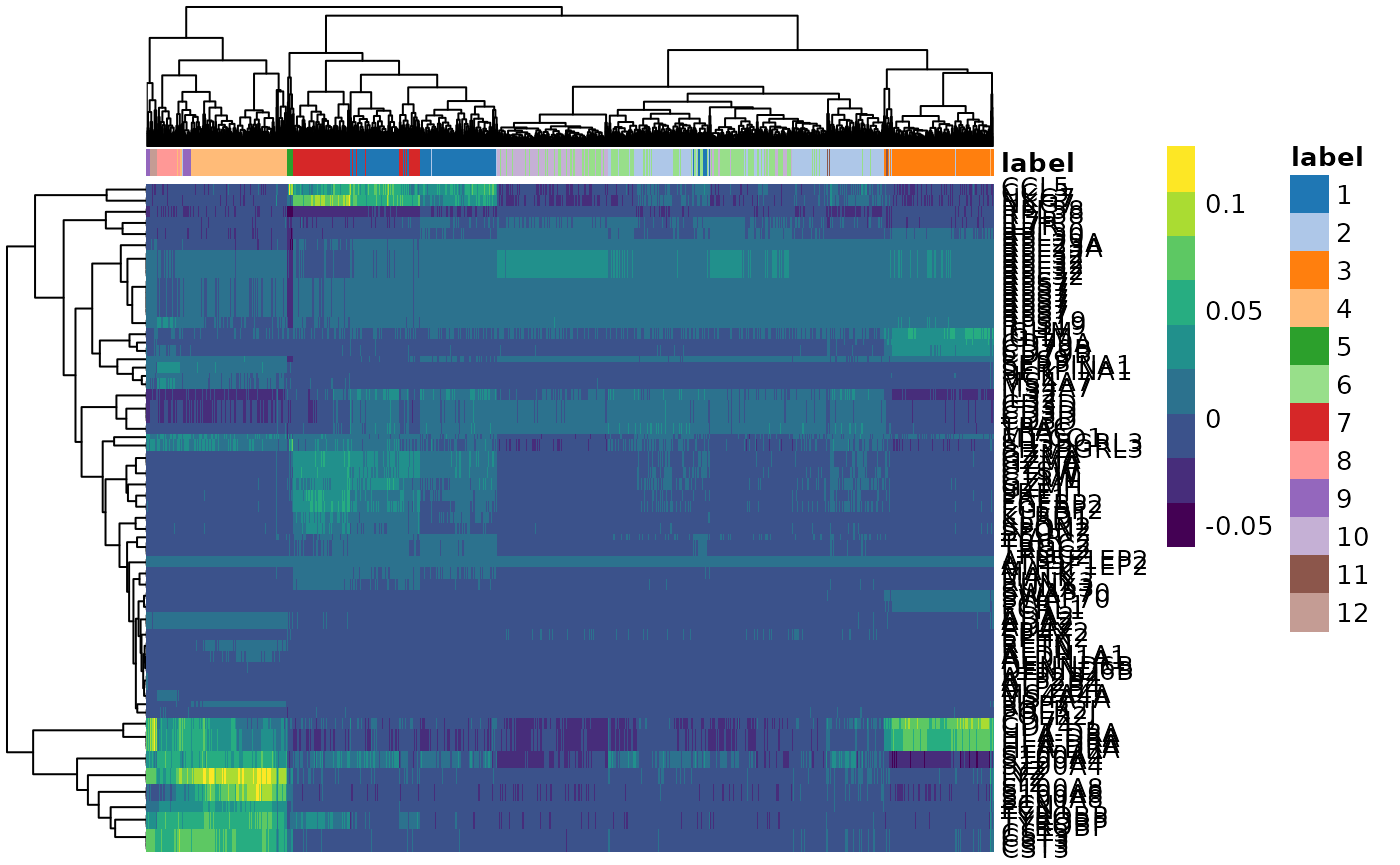
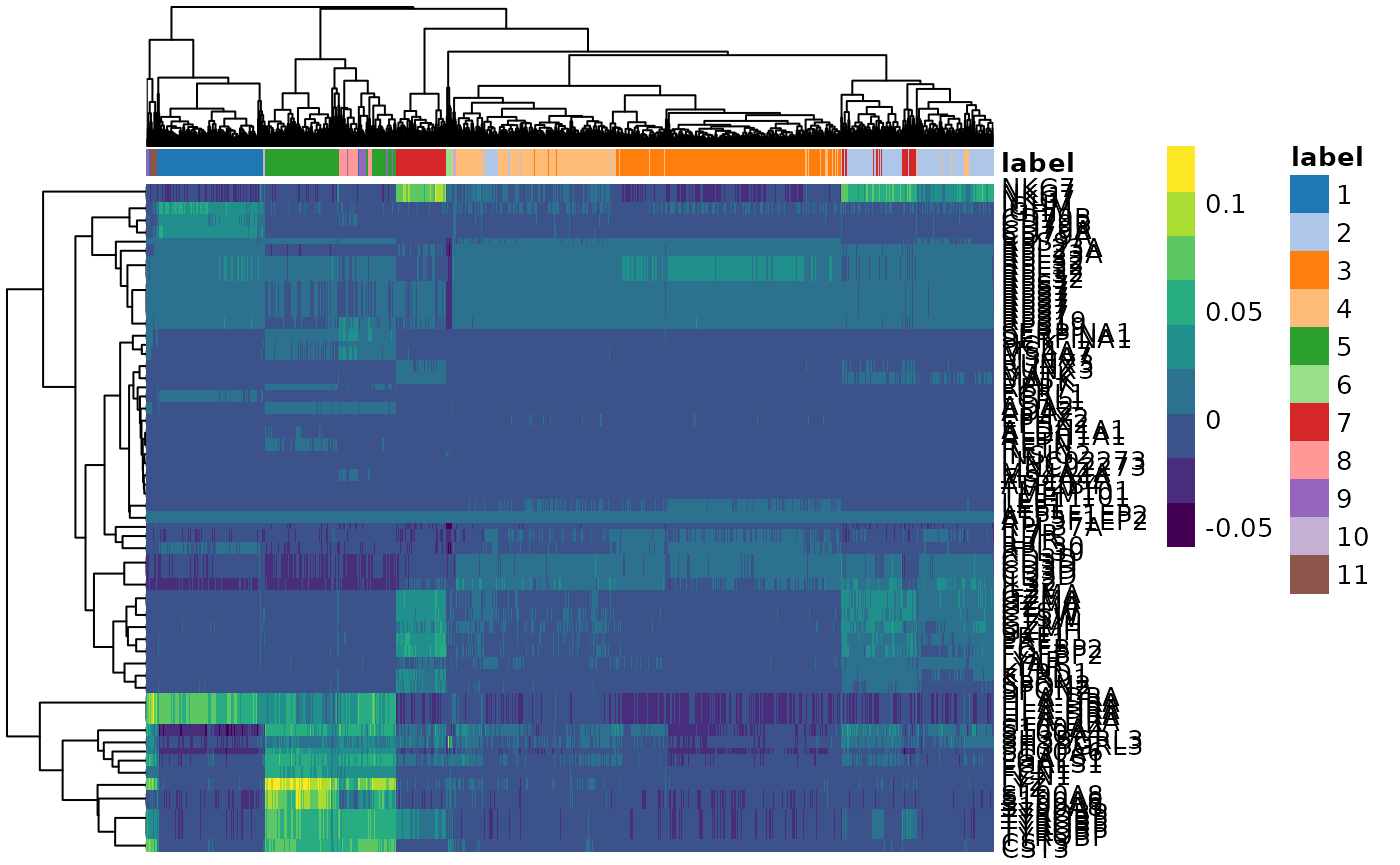
Deploying to gh-pages from  @ a891054244f33c770481f4116cd50b5c8992ccff 🚀

diff --git a/articles/tidytranscriptomics.html b/articles/tidytranscriptomics.html
@@ -93,8 +93,7 @@
 <div id="workshop-introduction" class="section level1">
 <h1 class="hasAnchor">
 <a href="#workshop-introduction" class="anchor"></a>Workshop introduction</h1>
-<p>Background information and setup instructions for this workshop can be found <a href="https://stemangiola.github.io/bioc2021_tidytranscriptomics/articles/background.html">here</a>.</p>
-<p>This workshop will present how to perform analysis of RNA sequencing data following the tidy data paradigm <span class="citation">(Wickham and others 2014)</span>. The tidy data paradigm provides a standard way to organise data values within a dataset, where each variable is a column, each observation is a row, and data is manipulated using an easy-to-understand vocabulary. Most importantly, the data structure remains consistent across manipulation and analysis functions. This can be achieved for RNA sequencing data with the <a href="https://stemangiola.github.io/tidybulk/">tidybulk</a>, <a href="https://stemangiola.github.io/tidySummarizedExperiment/">tidySummarizedExperiment</a> and <a href="https://stemangiola.github.io/tidySingleCellExperiment/">tidySingleCellExperiment</a> packages. These packages are part of the tidytranscriptomics suite that introduces a tidy approach to RNA sequencing data representation and analysis. The roadmap for the development of the tidytranscriptomics packages is shown in the figure below.</p>
+<p><a href="https://stemangiola.github.io/tidybulk/">tidybulk</a>, <a href="https://stemangiola.github.io/tidySummarizedExperiment/">tidySummarizedExperiment</a> and <a href="https://stemangiola.github.io/tidySingleCellExperiment/">tidySingleCellExperiment</a> are part of the tidytranscriptomics suite that introduces a tidy approach to RNA sequencing data representation and analysis. The roadmap for the development of the tidytranscriptomics packages is shown in the figure below.</p>
 <p><img src="../inst/vignettes/roadmap.png" width="600px"></p>
 </div>
 <div id="part-1-bulk-rna-seq-with-tidysummarizedexperiment-and-tidybulk" class="section level1">
@@ -674,15 +673,17 @@
   <span class="fu"><a href="https://ggplot2.tidyverse.org/reference/scale_continuous.html">scale_y_continuous</a></span><span class="op">(</span>trans <span class="op">=</span> <span class="st">"log10_reverse"</span><span class="op">)</span> <span class="op">+</span>
   <span class="va">custom_theme</span></code></pre></div>
 <p><img src="tidytranscriptomics_files/figure-html/unnamed-chunk-28-1.png" width="70%"></p>
-<p>A more informative plot, integrating some of the packages in tidyverse.</p>
-<p>We’ll extract the symbols for a few top genes (by P value) to use in some of the plots we will make.</p>
+<p>We’ll extract the symbols for a few top genes (by P value) to use in a more informative volcano plot, integrating some of the packages in tidyverse.</p>
 <div class="sourceCode" id="cb26"><pre class="downlit sourceCode r">
 <code class="sourceCode R"><span class="va">topgenes_symbols</span> <span class="op">&lt;-</span>
   <span class="va">counts_de</span> <span class="op">%&gt;%</span>
   <span class="fu"><a href="https://rdrr.io/pkg/tidybulk/man/pivot_transcript-methods.html">pivot_transcript</a></span><span class="op">(</span><span class="op">)</span> <span class="op">%&gt;%</span>
   <span class="fu"><a href="https://dplyr.tidyverse.org/reference/arrange.html">arrange</a></span><span class="op">(</span><span class="va">PValue</span><span class="op">)</span> <span class="op">%&gt;%</span>
   <span class="fu"><a href="https://rdrr.io/r/utils/head.html">head</a></span><span class="op">(</span><span class="fl">6</span><span class="op">)</span> <span class="op">%&gt;%</span>
-  <span class="fu"><a href="https://rdrr.io/pkg/tidySummarizedExperiment/man/dplyr-methods.html">pull</a></span><span class="op">(</span><span class="va">symbol</span><span class="op">)</span></code></pre></div>
+  <span class="fu"><a href="https://rdrr.io/pkg/tidySummarizedExperiment/man/dplyr-methods.html">pull</a></span><span class="op">(</span><span class="va">symbol</span><span class="op">)</span>
+
+<span class="va">topgenes_symbols</span>
+<span class="co">#&gt; [1] "CACNB2"  "ZBTB16"  "PRSS35"  "PDPN"    "SPARCL1" "DUSP1"</span></code></pre></div>
 <div class="sourceCode" id="cb27"><pre class="downlit sourceCode r">
 <code class="sourceCode R"><span class="va">counts_de</span> <span class="op">%&gt;%</span>
   <span class="fu"><a href="https://rdrr.io/pkg/tidybulk/man/pivot_transcript-methods.html">pivot_transcript</a></span><span class="op">(</span><span class="op">)</span> <span class="op">%&gt;%</span>
@@ -1257,36 +1258,35 @@
 <span class="co">#&gt; [90m# Features=51958 | Assays=reconstructed[39m</span>
 <span class="co">#&gt;    cell       label batch corrected1 corrected2 corrected3 corrected4 corrected5</span>
 <span class="co">#&gt;    &lt;chr&gt;      &lt;fct&gt; &lt;int&gt;      &lt;dbl&gt;      &lt;dbl&gt;      &lt;dbl&gt;      &lt;dbl&gt;      &lt;dbl&gt;</span>
-<span class="co">#&gt;  1 CCAGTCACA… 4         1   -0.0644     -0.334     -0.0725     0.0559   -0.0739 </span>
-<span class="co">#&gt;  2 ATGAGCACA… 6         1   -0.178       0.0166    -0.122      0.122     0.0234 </span>
-<span class="co">#&gt;  3 TATGAATGG… 7         1   -0.0602     -0.0356     0.127      0.293     0.0127 </span>
-<span class="co">#&gt;  4 CATATAGAC… 12        1   -0.0761     -0.282     -0.121      0.0546   -0.00284</span>
-<span class="co">#&gt;  5 GAGGCAGAC… 1         1   -0.0757     -0.0424     0.0977     0.259     0.0248 </span>
-<span class="co">#&gt;  6 AGCTGCCTT… 2         1   -0.117      -0.0242    -0.0729     0.159     0.0170 </span>
-<span class="co">#&gt;  7 TGATTAGAT… 3         1   -0.146      -0.0752    -0.143      0.0489    0.0916 </span>
-<span class="co">#&gt;  8 ACGAAGCTC… 3         1   -0.119      -0.108     -0.127      0.0505    0.0624 </span>
-<span class="co">#&gt;  9 CGGCATCTT… 4         1   -0.00945    -0.407     -0.0466     0.0803   -0.0522 </span>
-<span class="co">#&gt; 10 ATAGCGTGC… 4         1   -0.0562     -0.367     -0.105      0.0589   -0.0609 </span>
+<span class="co">#&gt;  1 CCAGTCACA… 5         1    0.0644     -0.334      0.0725    -0.0560    0.0739 </span>
+<span class="co">#&gt;  2 ATGAGCACA… 3         1    0.178       0.0166     0.122     -0.122    -0.0233 </span>
+<span class="co">#&gt;  3 TATGAATGG… 7         1    0.0602     -0.0356    -0.127     -0.293    -0.0128 </span>
+<span class="co">#&gt;  4 CATATAGAC… 11        1    0.0760     -0.282      0.121     -0.0546    0.00285</span>
+<span class="co">#&gt;  5 GAGGCAGAC… 2         1    0.0756     -0.0424    -0.0977    -0.259    -0.0248 </span>
+<span class="co">#&gt;  6 AGCTGCCTT… 4         1    0.117      -0.0242     0.0729    -0.159    -0.0170 </span>
+<span class="co">#&gt;  7 TGATTAGAT… 1         1    0.146      -0.0752     0.143     -0.0488   -0.0915 </span>
+<span class="co">#&gt;  8 ACGAAGCTC… 1         1    0.119      -0.108      0.127     -0.0505   -0.0624 </span>
+<span class="co">#&gt;  9 CGGCATCTT… 5         1    0.00940    -0.407      0.0466    -0.0803    0.0522 </span>
+<span class="co">#&gt; 10 ATAGCGTGC… 5         1    0.0561     -0.367      0.105     -0.0590    0.0610 </span>
 <span class="co">#&gt; # … with 2,889 more rows</span></code></pre></div>
 <p>Thanks to tidySingleCellExperiment we can interrogate the object with tidyverse commands and use <code>count</code> to count the number of cells in each cluster.</p>
 <div class="sourceCode" id="cb51"><pre class="downlit sourceCode r">
 <code class="sourceCode R"><span class="va">pbmc</span> <span class="op">%&gt;%</span> <span class="fu"><a href="https://rdrr.io/pkg/tidySingleCellExperiment/man/count.html">count</a></span><span class="op">(</span><span class="va">label</span><span class="op">)</span>
 <span class="co">#&gt; tidySingleCellExperiment says: A data frame is returned for independent data analysis.</span>
-<span class="co">#&gt; # A tibble: 12 x 2</span>
+<span class="co">#&gt; # A tibble: 11 x 2</span>
 <span class="co">#&gt;    label     n</span>
 <span class="co">#&gt;    &lt;fct&gt; &lt;int&gt;</span>
-<span class="co">#&gt;  1 1       463</span>
-<span class="co">#&gt;  2 2       509</span>
-<span class="co">#&gt;  3 3       351</span>
-<span class="co">#&gt;  4 4       339</span>
-<span class="co">#&gt;  5 5        21</span>
-<span class="co">#&gt;  6 6       499</span>
-<span class="co">#&gt;  7 7       257</span>
+<span class="co">#&gt;  1 1       367</span>
+<span class="co">#&gt;  2 2       480</span>
+<span class="co">#&gt;  3 3       743</span>
+<span class="co">#&gt;  4 4       538</span>
+<span class="co">#&gt;  5 5       339</span>
+<span class="co">#&gt;  6 6        21</span>
+<span class="co">#&gt;  7 7       256</span>
 <span class="co">#&gt;  8 8        74</span>
 <span class="co">#&gt;  9 9        41</span>
-<span class="co">#&gt; 10 10      305</span>
-<span class="co">#&gt; 11 11       14</span>
-<span class="co">#&gt; 12 12       26</span></code></pre></div>
+<span class="co">#&gt; 10 10       14</span>
+<span class="co">#&gt; 11 11       26</span></code></pre></div>
 </div>
 <div id="reduce-dimensions" class="section level2">
 <h2 class="hasAnchor">
@@ -1343,7 +1343,7 @@
 <div class="sourceCode" id="cb55"><pre class="downlit sourceCode r">
 <code class="sourceCode R"><span class="co"># Reference cell types</span>
 <span class="va">blueprint</span> <span class="op">&lt;-</span> <span class="fu"><a href="https://rdrr.io/pkg/SingleR/man/datasets.html">BlueprintEncodeData</a></span><span class="op">(</span><span class="op">)</span>
-<span class="co">#&gt; snapshotDate(): 2021-05-26</span>
+<span class="co">#&gt; snapshotDate(): 2021-05-27</span>
 <span class="co">#&gt; see ?celldex and browseVignettes('celldex') for documentation</span>
 <span class="co">#&gt; loading from cache</span>
 <span class="co">#&gt; see ?celldex and browseVignettes('celldex') for documentation</span>
@@ -1367,21 +1367,20 @@
   <span class="fu"><a href="https://rdrr.io/pkg/tidySingleCellExperiment/man/dplyr-methods.html">select</a></span><span class="op">(</span><span class="va">label</span>, <span class="va">first.labels</span><span class="op">)</span>
 
 <span class="va">cell_type</span>
-<span class="co">#&gt; # A tibble: 12 x 2</span>
+<span class="co">#&gt; # A tibble: 11 x 2</span>
 <span class="co">#&gt;    label first.labels   </span>
 <span class="co">#&gt;    &lt;chr&gt; &lt;chr&gt;          </span>
-<span class="co">#&gt;  1 1     NK cells       </span>
-<span class="co">#&gt;  2 2     Fibroblasts    </span>
-<span class="co">#&gt;  3 3     B-cells        </span>
-<span class="co">#&gt;  4 4     Monocytes      </span>
-<span class="co">#&gt;  5 5     Smooth muscle  </span>
-<span class="co">#&gt;  6 6     Skeletal muscle</span>
+<span class="co">#&gt;  1 1     B-cells        </span>
+<span class="co">#&gt;  2 2     NK cells       </span>
+<span class="co">#&gt;  3 3     Skeletal muscle</span>
+<span class="co">#&gt;  4 4     Fibroblasts    </span>
+<span class="co">#&gt;  5 5     Monocytes      </span>
+<span class="co">#&gt;  6 6     Smooth muscle  </span>
 <span class="co">#&gt;  7 7     NK cells       </span>
 <span class="co">#&gt;  8 8     Neutrophils    </span>
 <span class="co">#&gt;  9 9     Macrophages    </span>
-<span class="co">#&gt; 10 10    Skeletal muscle</span>
-<span class="co">#&gt; 11 11    B-cells        </span>
-<span class="co">#&gt; 12 12    Monocytes</span></code></pre></div>
+<span class="co">#&gt; 10 10    B-cells        </span>
+<span class="co">#&gt; 11 11    Monocytes</span></code></pre></div>
 <p>We join the cell type information to our pbmc data.</p>
 <div class="sourceCode" id="cb56"><pre class="downlit sourceCode r">
 <code class="sourceCode R"><span class="co"># Join cell type info</span>
@@ -1395,37 +1394,36 @@
 <span class="co">#&gt; [90m# Features=51958 | Assays=reconstructed[39m</span>
 <span class="co">#&gt;    cell  first.labels batch label corrected1 corrected2 corrected3 corrected4</span>
 <span class="co">#&gt;    &lt;chr&gt; &lt;chr&gt;        &lt;int&gt; &lt;chr&gt;      &lt;dbl&gt;      &lt;dbl&gt;      &lt;dbl&gt;      &lt;dbl&gt;</span>
-<span class="co">#&gt;  1 CCAG… Monocytes        1 4       -0.0644     -0.334     -0.0725     0.0559</span>
-<span class="co">#&gt;  2 ATGA… Skeletal mu…     1 6       -0.178       0.0166    -0.122      0.122 </span>
-<span class="co">#&gt;  3 TATG… NK cells         1 7       -0.0602     -0.0356     0.127      0.293 </span>
-<span class="co">#&gt;  4 CATA… Monocytes        1 12      -0.0761     -0.282     -0.121      0.0546</span>
-<span class="co">#&gt;  5 GAGG… NK cells         1 1       -0.0757     -0.0424     0.0977     0.259 </span>
-<span class="co">#&gt;  6 AGCT… Fibroblasts      1 2       -0.117      -0.0242    -0.0729     0.159 </span>
-<span class="co">#&gt;  7 TGAT… B-cells          1 3       -0.146      -0.0752    -0.143      0.0489</span>
-<span class="co">#&gt;  8 ACGA… B-cells          1 3       -0.119      -0.108     -0.127      0.0505</span>
-<span class="co">#&gt;  9 CGGC… Monocytes        1 4       -0.00945    -0.407     -0.0466     0.0803</span>
-<span class="co">#&gt; 10 ATAG… Monocytes        1 4       -0.0562     -0.367     -0.105      0.0589</span>
+<span class="co">#&gt;  1 CCAG… Monocytes        1 5        0.0644     -0.334      0.0725    -0.0560</span>
+<span class="co">#&gt;  2 ATGA… Skeletal mu…     1 3        0.178       0.0166     0.122     -0.122 </span>
+<span class="co">#&gt;  3 TATG… NK cells         1 7        0.0602     -0.0356    -0.127     -0.293 </span>
+<span class="co">#&gt;  4 CATA… Monocytes        1 11       0.0760     -0.282      0.121     -0.0546</span>
+<span class="co">#&gt;  5 GAGG… NK cells         1 2        0.0756     -0.0424    -0.0977    -0.259 </span>
+<span class="co">#&gt;  6 AGCT… Fibroblasts      1 4        0.117      -0.0242     0.0729    -0.159 </span>
+<span class="co">#&gt;  7 TGAT… B-cells          1 1        0.146      -0.0752     0.143     -0.0488</span>
+<span class="co">#&gt;  8 ACGA… B-cells          1 1        0.119      -0.108      0.127     -0.0505</span>
+<span class="co">#&gt;  9 CGGC… Monocytes        1 5        0.00940    -0.407      0.0466    -0.0803</span>
+<span class="co">#&gt; 10 ATAG… Monocytes        1 5        0.0561     -0.367      0.105     -0.0590</span>
 <span class="co">#&gt; # … with 2,889 more rows, and 4 more variables: corrected5 &lt;dbl&gt;, UMAP1 &lt;dbl&gt;,</span>
 <span class="co">#&gt; #   UMAP2 &lt;dbl&gt;, UMAP3 &lt;dbl&gt;</span></code></pre></div>
 <p>We can easily summarise the results. For example, we can see how cell type classification overlaps with cluster classification.</p>
 <div class="sourceCode" id="cb57"><pre class="downlit sourceCode r">
 <code class="sourceCode R"><span class="va">pbmc</span> <span class="op">%&gt;%</span> <span class="fu"><a href="https://rdrr.io/pkg/tidySingleCellExperiment/man/count.html">count</a></span><span class="op">(</span><span class="va">label</span>, <span class="va">first.labels</span><span class="op">)</span>
 <span class="co">#&gt; tidySingleCellExperiment says: A data frame is returned for independent data analysis.</span>
-<span class="co">#&gt; # A tibble: 12 x 3</span>
+<span class="co">#&gt; # A tibble: 11 x 3</span>
 <span class="co">#&gt;    label first.labels        n</span>
 <span class="co">#&gt;    &lt;chr&gt; &lt;chr&gt;           &lt;int&gt;</span>
-<span class="co">#&gt;  1 1     NK cells          463</span>
-<span class="co">#&gt;  2 10    Skeletal muscle   305</span>
-<span class="co">#&gt;  3 11    B-cells            14</span>
-<span class="co">#&gt;  4 12    Monocytes          26</span>
-<span class="co">#&gt;  5 2     Fibroblasts       509</span>
-<span class="co">#&gt;  6 3     B-cells           351</span>
-<span class="co">#&gt;  7 4     Monocytes         339</span>
-<span class="co">#&gt;  8 5     Smooth muscle      21</span>
-<span class="co">#&gt;  9 6     Skeletal muscle   499</span>
-<span class="co">#&gt; 10 7     NK cells          257</span>
-<span class="co">#&gt; 11 8     Neutrophils        74</span>
-<span class="co">#&gt; 12 9     Macrophages        41</span></code></pre></div>
+<span class="co">#&gt;  1 1     B-cells           367</span>
+<span class="co">#&gt;  2 10    B-cells            14</span>
+<span class="co">#&gt;  3 11    Monocytes          26</span>
+<span class="co">#&gt;  4 2     NK cells          480</span>
+<span class="co">#&gt;  5 3     Skeletal muscle   743</span>
+<span class="co">#&gt;  6 4     Fibroblasts       538</span>
+<span class="co">#&gt;  7 5     Monocytes         339</span>
+<span class="co">#&gt;  8 6     Smooth muscle      21</span>
+<span class="co">#&gt;  9 7     NK cells          256</span>
+<span class="co">#&gt; 10 8     Neutrophils        74</span>
+<span class="co">#&gt; 11 9     Macrophages        41</span></code></pre></div>
 </div>
 </div>
 <div id="pseudobulk-analyses" class="section level2">
@@ -1681,9 +1679,6 @@ Racle, Julien, Kaat de Jonge, Petra Baumgaertner, Daniel E Speiser, and David Gf
 </div>
 <div id="ref-robinson2010scaling" class="csl-entry">
 Robinson, Mark D, and Alicia Oshlack. 2010. <span>“A Scaling Normalization Method for Differential Expression Analysis of RNA-Seq Data.”</span> <em>Genome Biology</em> 11 (3): 1–9.
-</div>
-<div id="ref-wickham2014tidy" class="csl-entry">
-Wickham, Hadley, and others. 2014. <span>“Tidy Data.”</span> <em>Journal of Statistical Software</em> 59 (10): 1–23.
 </div>
 </div>
 </div>
